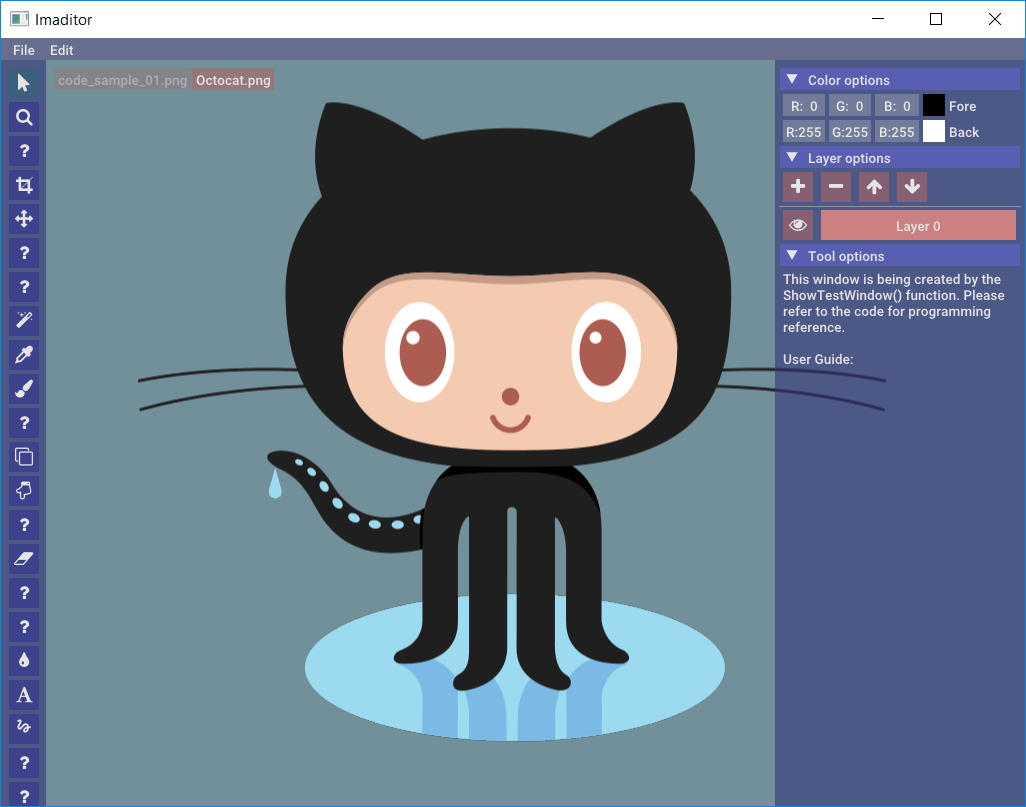
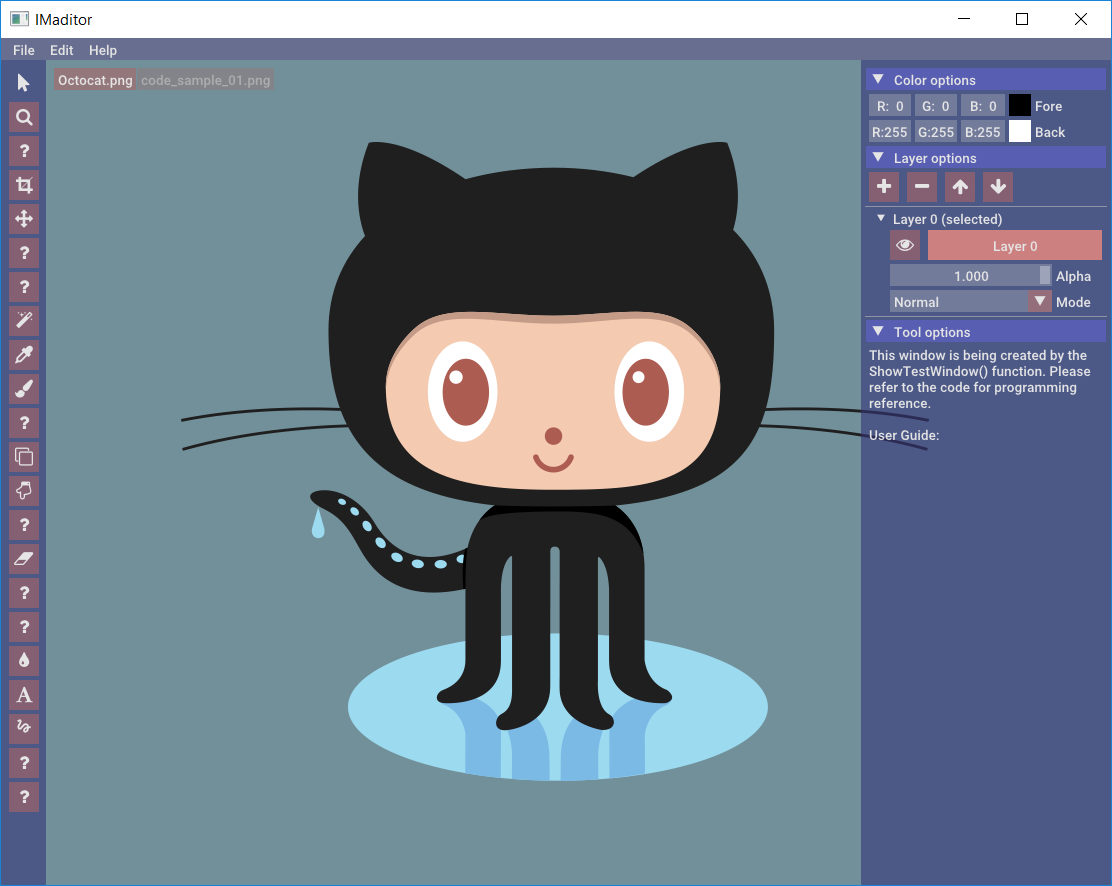
updated the layer options

Changed region(s): [[0.0, 0.0, 1.0, 1.0]]

diff --git a/program.cpp b/program.cpp
@@ -367,6 +367,8 @@ public:
 
     std::string _name;
     bool _visible;
+    float _alpha;
+    int _alphaMode;
 
     int _offset[2];
     int _size[2];
@@ -381,7 +383,7 @@ public:
     static Layer* fromFile(const char* filename);
 };
 
-Layer::Layer() : _visible(true), glindex(0) { }
+Layer::Layer() : _visible(true), _alpha(1.0f), _alphaMode(0), glindex(0) { }
 
 void Layer::upload()
 {
@@ -588,9 +590,6 @@ void Program::Render()
 
     ImGui_ImplGlfwGL3_NewFrame();
 
-    const ImVec4 activeButtonColor = ImVec4(0.20f, 0.20f, 0.57f, 0.60f);
-    const ImVec4 inactiveButtonColor = ImVec4(0.20f, 0.40f, 0.47f, 0.60f);
-
     ImGui::PushStyleVar(ImGuiStyleVar_WindowRounding, 1.0f);
     {
         ImGui::PushStyleColor(ImGuiCol_WindowBg, ImVec4(1.0f, 1.0f, 1.0f, 0.0f));
@@ -639,6 +638,11 @@ void Program::Render()
                     if (ImGui::MenuItem("Paste", "CTRL+V")) {}
                     ImGui::EndMenu();
                 }
+                if (ImGui::BeginMenu("Help"))
+                {
+                    if (ImGui::MenuItem("About IMaditor")) {}
+                    ImGui::EndMenu();
+                }
                 ImGui::EndMainMenuBar();
             }
         }
@@ -654,9 +658,11 @@ void Program::Render()
 
                 for (int i = 0; i < sizeof(tools) / sizeof(Tool); i++)
                 {
-                    ImGui::PushStyleColor(ImGuiCol_Button, i == selectedTool ? inactiveButtonColor : activeButtonColor);
+                    ImGui::PushID(i);
+                    ImGui::PushStyleColor(ImGuiCol_Button, i == selectedTool ? ImVec4(1.0f, 1.0f, 1.0f, 0.0f) : ImGui::GetStyle().Colors[ImGuiCol_Button]);
                     if (ImGui::Button(tools[i].icon, ImVec2(30, 30))) selectTool(i);
                     ImGui::PopStyleColor(1);
+                    ImGui::PopID();
                 }
             }
             ImGui::End();
@@ -697,20 +703,34 @@ void Program::Render()
                         if (ImGui::Button(FontAwesomeIcons::FA_ARROW_UP, ImVec2(30.0f, 30.0f))) moveCurrentLayerUp();
                         ImGui::SameLine();
                         if (ImGui::Button(FontAwesomeIcons::FA_ARROW_DOWN, ImVec2(30.0f, 30.0f))) moveCurrentLayerDown();
+
                         ImGui::Separator();
 
                         Document* doc = _documents[selectedTab];
                         for (int i = 0; i < doc->_layers.size(); i++)
                         {
+                            auto layer = doc->_layers[i];
                             ImGui::PushID(i);
-                            if (ImGui::Button(doc->_layers[i]->_visible ? FontAwesomeIcons::FA_EYE : FontAwesomeIcons::FA_EYE_SLASH, ImVec2(30, 30)))
-                                doc->_layers[i]->_visible = !doc->_layers[i]->_visible;
-                            ImGui::SameLine();
-                            ImGui::PushStyleColor(ImGuiCol_Button, i == selectedLayer ? ImGui::GetStyle().Colors[ImGuiCol_ButtonActive] : ImVec4(0.20f, 0.40f, 0.47f, 0.0f));
-                            if (ImGui::Button(doc->_layers[i]->_name.c_str(), ImVec2(-1, 30))) selectLayer(i);
-                            ImGui::PopStyleColor(1);
+                            auto title = layer->_name;
+                            if (selectedLayer == i) title += " (selected)";
+                            if (ImGui::TreeNode("layer_node", title.c_str()))
+                            {
+                                if (ImGui::Button(layer->_visible ? FontAwesomeIcons::FA_EYE : FontAwesomeIcons::FA_EYE_SLASH, ImVec2(30, 30)))
+                                    layer->_visible = !layer->_visible;
+                                ImGui::SameLine();
+                                ImGui::PushStyleColor(ImGuiCol_Button, i == selectedLayer ? ImGui::GetStyle().Colors[ImGuiCol_ButtonActive] : ImVec4(0.20f, 0.40f, 0.47f, 0.0f));
+                                if (ImGui::Button(layer->_name.c_str(), ImVec2(-1, 30))) selectLayer(i);
+                                ImGui::PopStyleColor(1);
+
+                                ImGui::SliderFloat("Alpha", &(layer->_alpha), 0.0f, 1.0f);
+                                ImGui::Combo("Mode", &(layer->_alphaMode), "Normal\0Darken\0Lighten\0Hue\0Saturation\0Color\0Lumminance\0Multiply\0Screen\0Dissolve\0Overlay\0Hard Light\0Soft Light\0Difference\0Dodge\0Burn\0Exclusion\0\0");
+
+                                ImGui::TreePop();
+                            }
                             ImGui::PopID();
                         }
+
+                        ImGui::Separator();
                     }
                 }
 

diff --git a/main.cpp b/main.cpp
@@ -15,7 +15,7 @@ int main(int argc, char *argv[])
     if (glfwInit() == GLFW_FALSE)
         return -1;
 
-    GLFWwindow* window = glfwCreateWindow(1024, 768, "Imaditor", NULL, NULL);
+    GLFWwindow* window = glfwCreateWindow(1024, 768, "IMaditor", NULL, NULL);
     if (window == 0)
     {
         glfwTerminate();
